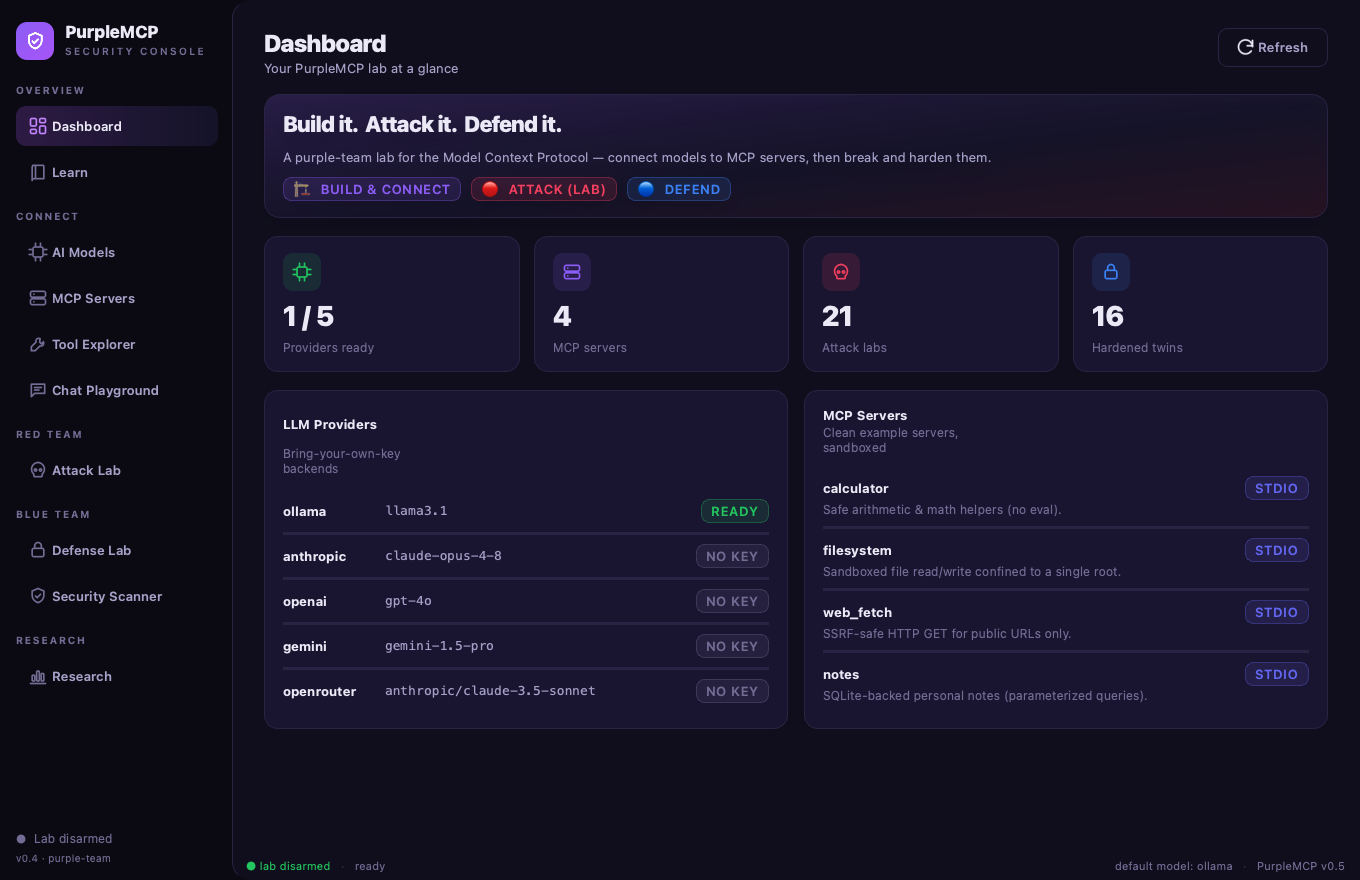
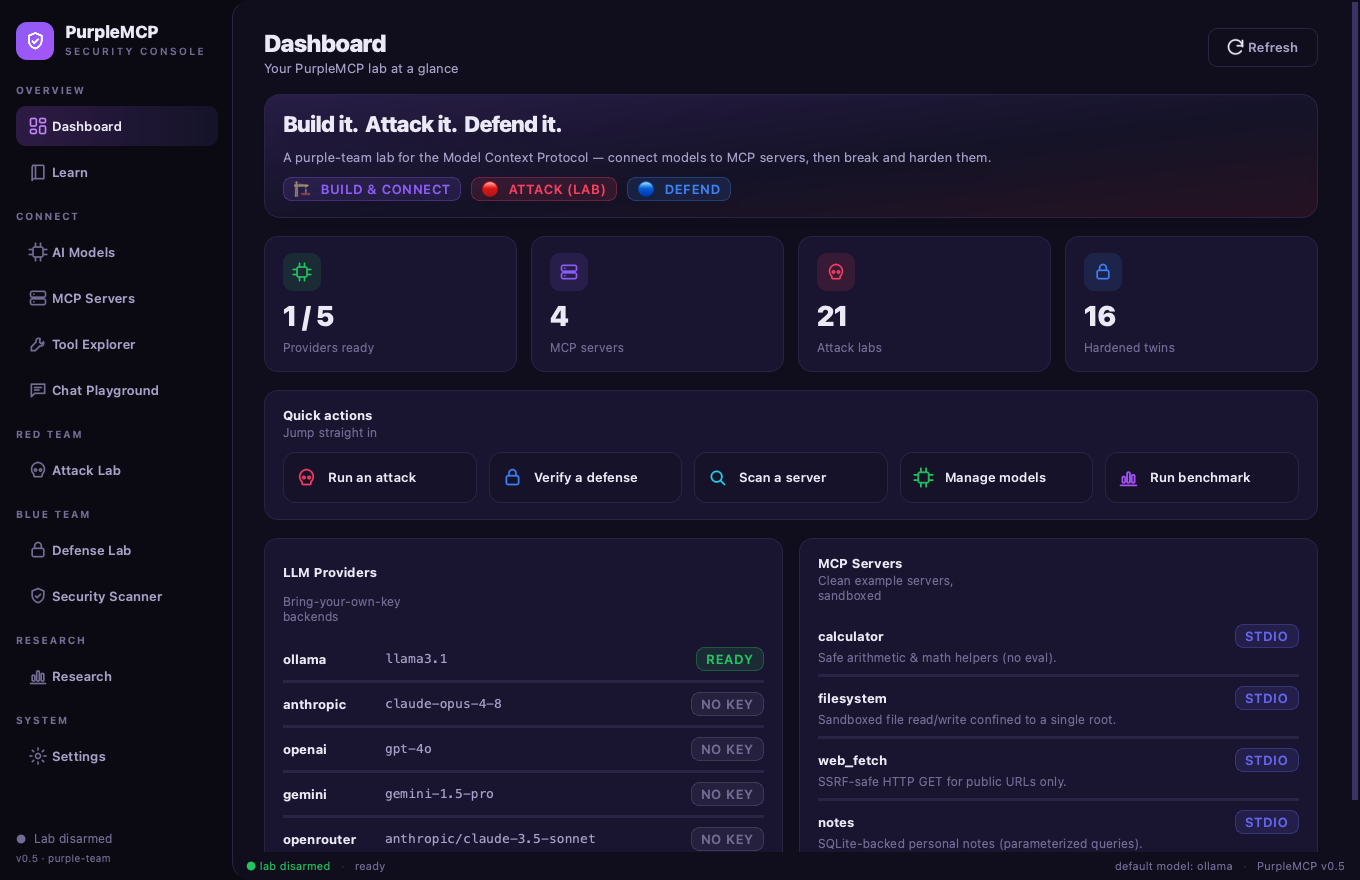
Dashboard: quick-action tiles that deep-link into the app
The dashboard is the first screen users see, so give them one-click entry points:
a "Quick actions" row of color-coded tiles — Run an attack, Verify a defense,
Scan a server, Manage models, Run benchmark — that jump straight to the matching
page.

- DashboardPage now exposes a `navigate(str)` signal; MainWindow wires it to the
  page switcher (so the sidebar highlight updates too).
- Tiles are styled, hover-highlighted QPushButtons; the action list is a small
  QUICK_ACTIONS table.
- Regenerated docs/images/gui/1_dashboard.png to show the new row.
- Verified: 101 tests pass; all 5 tiles navigate to the correct page offscreen.

diff --git a/purplemcp/gui/widgets/dashboard.py b/purplemcp/gui/widgets/dashboard.py
@@ -2,11 +2,12 @@
 
 from __future__ import annotations
 
-from PySide6.QtCore import Qt
+from PySide6.QtCore import Qt, Signal
 from PySide6.QtWidgets import (
     QGridLayout,
     QHBoxLayout,
     QLabel,
+    QPushButton,
     QVBoxLayout,
     QWidget,
 )
@@ -102,7 +103,18 @@ class HeroCard(Card):
         self.body.addLayout(pillars)
 
 
+QUICK_ACTIONS = [
+    ("attacks", "Run an attack", "skull", "red"),
+    ("defense", "Verify a defense", "lock", "blue"),
+    ("scanner", "Scan a server", "search", "cyan"),
+    ("models", "Manage models", "cpu", "green"),
+    ("research", "Run benchmark", "chart", "purple"),
+]
+
+
 class DashboardPage(QWidget):
+    navigate = Signal(str)  # page key — wired to the main window's switcher
+
     def __init__(self, parent=None) -> None:
         super().__init__(parent)
         inner = QWidget()
@@ -132,6 +144,15 @@ class DashboardPage(QWidget):
             self._stats.addWidget(card, 0, col)
         root.addLayout(self._stats)
 
+        # quick actions — clickable tiles that deep-link into the app
+        qa = Card("Quick actions", "Jump straight in")
+        qrow = QHBoxLayout()
+        qrow.setSpacing(12)
+        for key, title, icon_name, color_key in QUICK_ACTIONS:
+            qrow.addWidget(self._make_tile(key, title, icon_name, PALETTE[color_key]))
+        qa.body.addLayout(qrow)
+        root.addWidget(qa)
+
         # detail cards row
         detail = QHBoxLayout()
         detail.setSpacing(16)
@@ -153,6 +174,19 @@ class DashboardPage(QWidget):
         outer.setContentsMargins(0, 0, 0, 0)
         outer.addWidget(make_scroll(inner))
         self.refresh()
+
+    def _make_tile(self, key: str, title: str, icon_name: str, color: str) -> QPushButton:
+        tile = QPushButton(f"  {title}")
+        tile.setIcon(icon(icon_name, color, 18))
+        tile.setCursor(Qt.PointingHandCursor)
+        tile.setStyleSheet(
+            f"QPushButton {{ background: {PALETTE['surface_2']}; color: {PALETTE['text']};"
+            f" border: 1px solid {PALETTE['border']}; border-radius: 12px;"
+            f" padding: 14px 12px; text-align: left; font-weight: 600; }}"
+            f"QPushButton:hover {{ border-color: {color}; background: {PALETTE['surface_hi']}; }}"
+        )
+        tile.clicked.connect(lambda _=False, k=key: self.navigate.emit(k))
+        return tile
 
     # -- data ------------------------------------------------------------- #
     def refresh(self) -> None:

diff --git a/purplemcp/gui/app.py b/purplemcp/gui/app.py
@@ -68,6 +68,7 @@ class MainWindow(QMainWindow):
 
         # pages, in nav order
         self._dashboard = DashboardPage()
+        self._dashboard.navigate.connect(self._go_and_select)
         self._chat = ChatPage(loop)
         self._pages = {
             "dashboard": self._dashboard,
